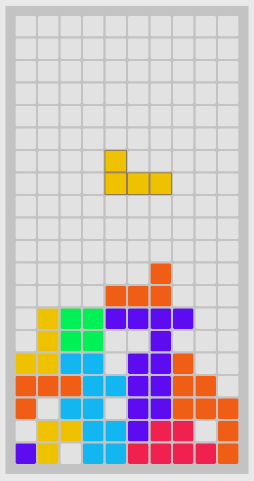
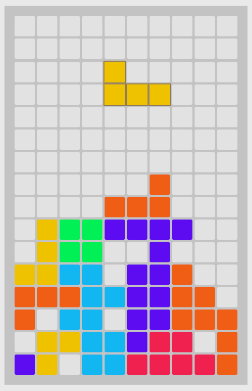
save some vertical space

diff --git a/client/src/app/component/game/game.component.html b/client/src/app/component/game/game.component.html
@@ -26,7 +26,7 @@
     <div class="row">
       <div class="col-sm-12">
         <ul>
-          <li>Angular 2 port by <a href="https://www.thecodecampus.de/">thecodecampus</a></li>
+          <li>Angular port by <a href="https://www.thecodecampus.de/">thecodecampus</a></li>
           <li>Style from: <a href="https://github.com/daihuaye" target="_blank">https://github.com/daihuaye</a></li>
           <li>Based on: <a href="https://gamedevelopment.tutsplus.com/series/implementing-tetris--gamedev-12717">Implementing
             Tetris by Michael James Williams</a></li>

diff --git a/client/src/app/service/gamepad.service.ts b/client/src/app/service/gamepad.service.ts
@@ -7,7 +7,7 @@ import {Subject} from "rxjs";
 export class GamepadService {
   gamepad_count: number = 2;     // number of available gamepads
   axisInputThrottle: number = 100; // time in ms before a second click will be applied
-  buttonInputThrottle: number = 300;
+  buttonInputThrottle: number = 200;
 
   private buttonInputSubject = new Subject();
   private axisInputSubject = new Subject();

diff --git a/client/src/app/component/game-app/game-app.component.html b/client/src/app/component/game-app/game-app.component.html
@@ -53,7 +53,7 @@
 <div class="jumbotron">
   <div class="howto">
     <!--<img src="assets/img/howto.png" class="img-responsive">-->
-    <h1>Controls</h1>
+    <!--<h1>Controls</h1>-->
     <div class="row">
       <div class="col-md-5">
         <i class="fa fa-4x fa-arrows" aria-hidden="true"></i>

diff --git a/client/src/app/component/game-app/game-app.component.less b/client/src/app/component/game-app/game-app.component.less
@@ -46,7 +46,8 @@
   text-align: center;
 
   h1 {
-    margin-bottom: 50px;
+    margin-top: 0;
+    margin-bottom: 15px;
   }
 
   i, p {
